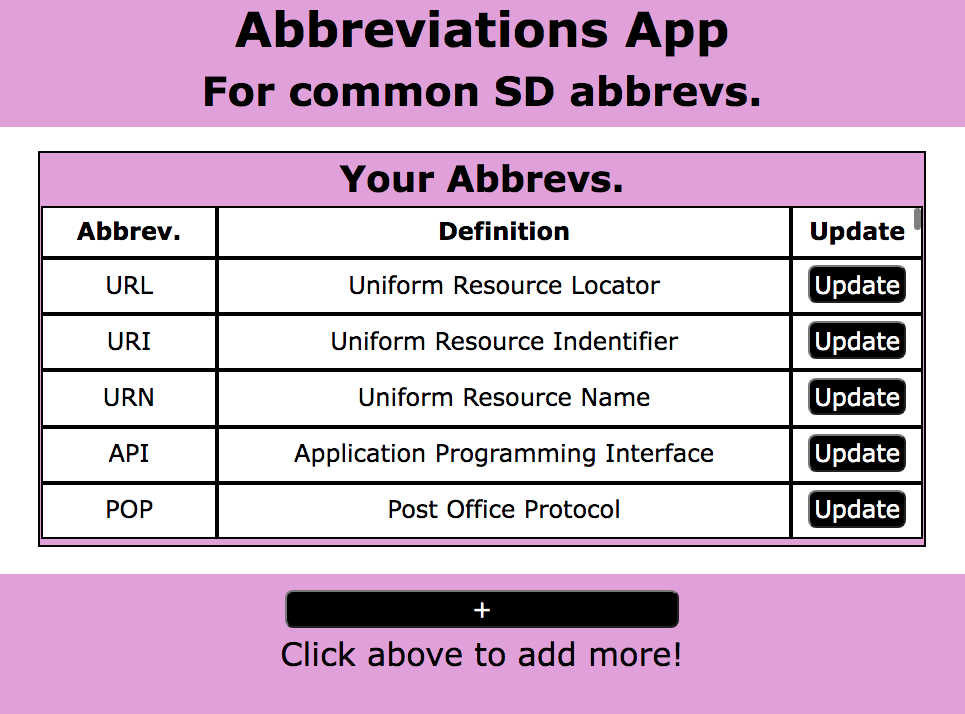
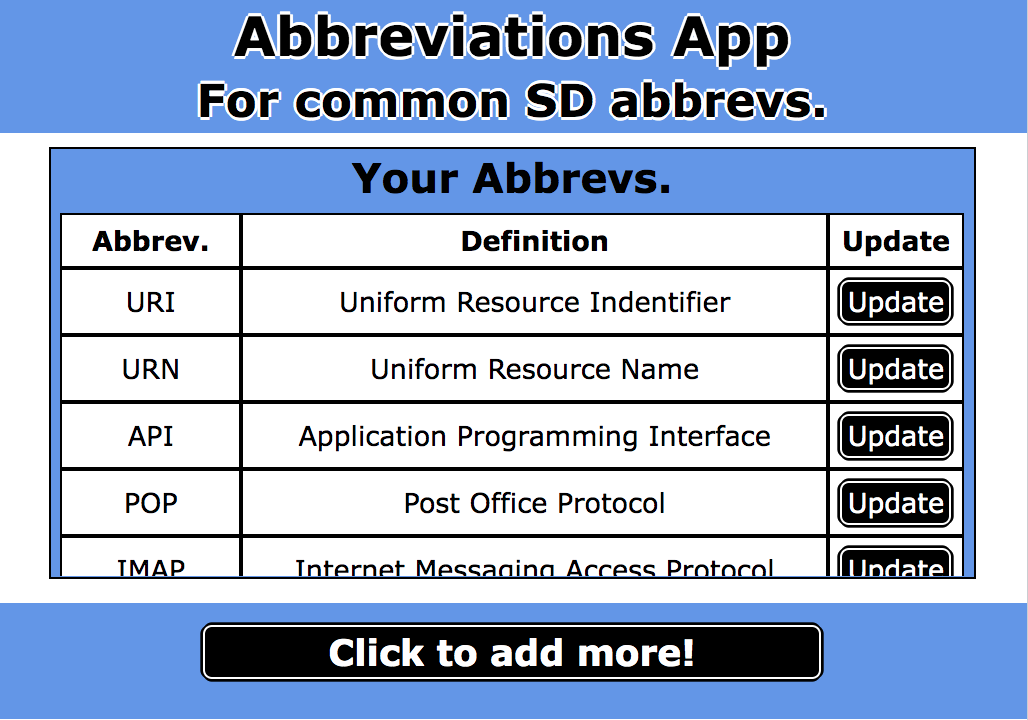
Styling updates.

diff --git a/public/styles.css b/public/styles.css
@@ -21,18 +21,23 @@ label, input { font-size: 2rem; }
 span { font-size: 1.5rem; }
 button { font-size: 1.5rem; }
 
-h1, h2, h3, p, label, input, span, button {
+h1, h2, h3, p, label, input, span {
   font-family: verdana, helvetica, sans-serif;
   text-align: center;
-  margin: 0 auto .25rem;
+  margin: 0 auto;
   padding: .15rem;
   background-color: none;
 }
-/* Button styles. ------------------------------------------------------ */
+/* Button styles. --------------------------------------------- */
 button {
+  font-family: verdana, helvetica, sans-serif;
+  text-align: center;
+  margin: .2rem auto;
   color: white;
   background-color: black;
-  border-radius: 8px;
+  border: .15rem solid white;
+  box-shadow: 0 0.15rem black, 0 -0.15rem black, 0.15rem 0 black, -0.15rem 0 black;
+  border-radius: .5rem;
   padding: .15rem .25rem;
 }
 button:hover {
@@ -40,28 +45,35 @@ button:hover {
   background-color: white;
   cursor: pointer;
 }
-/* Header styles. ------------------------------------------------------ */
+/* Header styles. --------------------------------------------- */
 .header {
   width: 100%;
-  height: 18%;
-  margin: 0 auto 1.5rem;
-  background-color: plum;
+  margin: 0 auto .75rem;
+  padding-bottom: .25rem;
+  background-color: cornflowerblue;
 }
-/* Main styles. ------------------------------------------------------ */
+.header h1, .header h2 {
+  text-shadow: 0 0.15rem white, 0 -0.15rem white, 0.15rem 0 white, -0.15rem 0 white;
+}
+/* Main styles. ------------------------------------------------ */
 .main {
   width: 90%;
-  height: 55%;
+  height: 60%;
   margin: 0 auto;
-  background-color: plum;
+  background-color: cornflowerblue;
   border: .15rem solid black;
+  display: flex;
+  flex-direction: column;
+  align-items: center;
+  justify-content: space-between;
 }
 .main h3 {
   width: 100%;
-  background-color: plum;
+  background-color: cornflowerblue;
 }
-/* Abbreviations container/s -------------------------------------- */
+/* Abbreviations containers -------------------------------- */
 .abbrContainer {
-  width: 100%;
+  width: 98%;
   height: 85%;
   display: flex;
   flex-direction: column;
@@ -71,7 +83,7 @@ button:hover {
   overflow-x: hidden;
   position: relative;
 }
-.abbrContainer .rowHeaderDiv:first-child {
+.abbrContainer .rowHeaderDiv {
   position: sticky;
   top: 0;
   background-color: white;
@@ -94,7 +106,7 @@ button:hover {
 .rowHeader {
   font-weight: bold;
 }
-/* The Modal Cover. -------------------------------------------------------- */
+/* The Modal Cover. ------------------------------------------- */
 .modalCover {
   position: fixed;
   top: 0;
@@ -103,47 +115,48 @@ button:hover {
   height: 100%;
   z-index: 1;
   background-color: grey;
-  opacity: 50%;
+  opacity: 85%;
 }
-/* The Add Abbreviation, Update & Delete Modals----------------------------- */
+/* The Add Abbreviation, Update & Delete Modals --------------- */
 .addAbbrevModal, .updateAbbrevModal {
-  position: fixed;
-  top: 18%;
-  width: 90%;
-  height: 60%;
-  z-index: 2;
   background-color: white;
+  border: .25rem solid black;
+  position: fixed;
+  top: 20%;
+  width: 90%;
+  height: 63%;
+  z-index: 2;
   display: flex;
   flex-direction:column;
-  justify-content: center;
+  justify-content: space-evenly;
   align-items: center;
 }
 .addAbbrevModal button, .updateAbbrevModal button {
   min-width: 50%;
-  margin-top: 1.5rem;
-  margin-bottom: 1rem;
 }
 .addAbbrevModal form, .updateAbbrevModal form {
   width: 100%;
   display: flex;
   flex-direction:column;
   align-items: center;
-  border-top: .15rem solid black;
-  margin-top: 2rem;
-  padding-top: 1rem;
+  border-top: .25rem solid black;
 }
-.abbrevInput {
+.abbrevInputCont {
   width: 90%;
   display: flex;
   flex-direction:column;
   align-items: center;
 }
-.abbrevInput input {
+.abbrevInputCont input {
   width: 90%;
   text-align: left;
   margin-bottom: .5rem;
 }
+.abbrevInputCont label {
+  font-weight: bold;
+}
 .updButtonsCont {
+  padding-top: 1rem;
   width: 100%;
   display: flex;
   justify-content: space-around;
@@ -154,27 +167,30 @@ button:hover {
 .delete, .cancel {
   background-color: red;
 }
-/* footer styles. ------------------------------------------------------ */
+/* Footer styles. -------------------------------------------- */
 .footer {
   width: 100%;
-  height: 20%;
   margin: 1.5rem auto 0;
   padding-top: 1rem;
-  padding-bottom: 3rem;
-  background-color: plum;
+  padding-bottom: 2rem;
+  background-color: cornflowerblue;
   position: fixed;
   bottom: 0px;
   display: flex;
-  flex-direction: column;
-  align-items: center;
+  justify-content: center;
 }
-.footer button { width: 40%; }
-/* Hide class. ---------------------------------------------------- */
+.footer button { 
+  width: 60%; 
+  font-size: 2rem;
+  font-weight: bold;
+}
+/* Hide class. ----------------------------------------------- */
 .hide {
   display: none;
 }
-/* Media queries. ------------------------------------------------- */
-@media screen and (min-width: 1050px) {
+/* Media queries. -------------------------------------------- */
+@media screen and (min-width: 801px) {
+  html { font-size: 12px; }
   body { width: 80%; }
   .main { width: 100%; }
   .footer { width: 80%; }
@@ -190,17 +206,22 @@ button:hover {
 }
 @media screen and (max-width: 500px) {
   html { font-size: 8px; }
-  button { border-radius: 6px; }
+  button { border-radius: .4rem; }
 }
-@media screen and (max-width: 400px) and (max-height: 600px) {
-  .header { height: 13%; }
-  .main { height: 64%; }
-  .footer { height: 18%; }
-  .abbrRow div { padding: .5rem 0; }
+@media screen and (max-width: 400px) and (max-height: 700px) {
+  .main { height: 72%; }
+  .main h3 { margin-top: 1.5rem; }
+  .footer { height: 15%; }
+  .abbrRow div { padding: 1rem 0; }
+  .abbrRow div button { padding: .5rem 0.4rem; }
   .abbrContainer { height: 90%; }
   .addAbbrevModal, .updateAbbrevModal {
     top: 13%;
     width: 90%;
-    height: 68%;
+    height: 55%;
+  }
+  .addAbbrevModal *, .updateAbbrevModal * {
+    padding-top: 1rem;
+    padding-bottom: 1rem;
   }
 }

diff --git a/server.js b/server.js
@@ -69,6 +69,6 @@ app.post("/delete", (req, res) => {
   })
 });
 
-app.listen(3000, () => {
-  console.log("The server is running on port 3000.");
+app.listen(5000, () => {
+  console.log("The server is running on port 5000.");
 })
